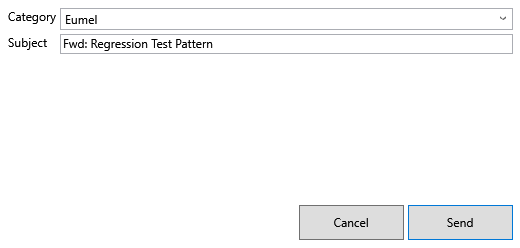
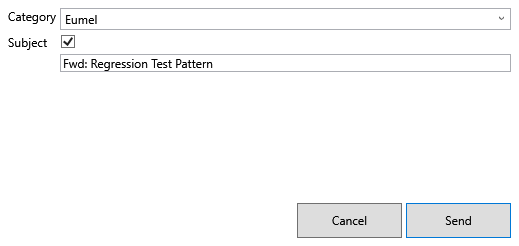
checkbox for adding category with text and screenshot updated.

diff --git a/Eumel.EmailCategorizer/Eumel.EmailCategorizer.WpfUI/EmailSubjectWindow.xaml b/Eumel.EmailCategorizer/Eumel.EmailCategorizer.WpfUI/EmailSubjectWindow.xaml
@@ -20,7 +20,7 @@
         </Grid.ColumnDefinitions>
 
         <TextBlock Text="Category" Margin="0 0 4 4" Grid.Column="0" Grid.Row="0" />
-        <ComboBox x:Name="Category" Margin="0 0 0 4" IsEditable="True" Grid.Column="1" Grid.Row="0" />
+        <ComboBox x:Name="Category" Margin="0 0 0 4" IsEditable="True" Grid.Column="1" Grid.Row="0" Text="add or update to list" />
         <CheckBox x:Name="AddToList" Margin="0 0 0 4" IsChecked="True" Grid.Column="1" Grid.Row="1" />
 
         <TextBlock Text="Subject" Margin="0 0 4 4" Grid.Column="0" Grid.Row="1" />
